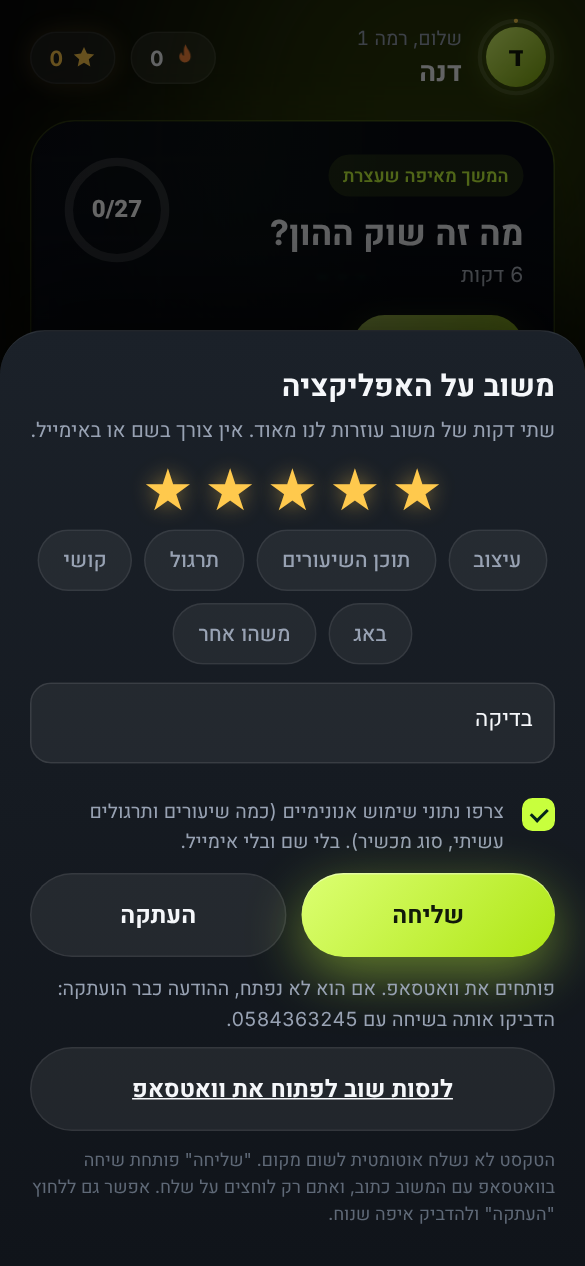
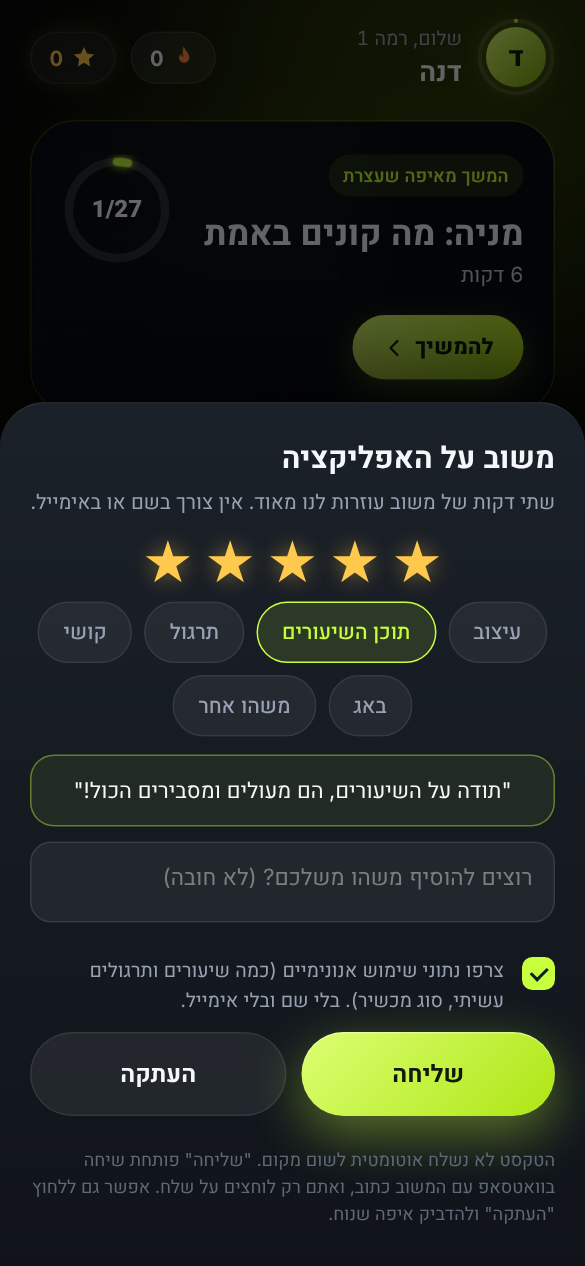
Feedback: ready-made short sentence for every topic and star count, compact message format
Claude-Session: https://claude.ai/code/session_011m9Yf8x73arYD9GUop3Civ

diff --git a/capital-market-app/review/app.html b/capital-market-app/review/app.html
@@ -1122,6 +1122,9 @@ details.more p{font-size:13.5px;line-height:1.65;color:var(--muted);margin:8px 0
 .fbfab span{display:none}.fbfab svg{width:24px;height:24px;color:#0b0d10}
 .with-tabs .fbfab{bottom:164px}
 
+.fb-prev{margin:4px 0 10px;padding:12px 14px;border-radius:16px;background:rgba(255,255,255,.05);border:1px dashed var(--line);font-size:14.5px;line-height:1.55;color:var(--muted);text-align:center}
+.fb-prev.on{color:var(--text);border-style:solid;border-color:rgba(200,255,61,.4);background:rgba(200,255,61,.07)}
+
 body{background:#0b0d10}
 @media (min-width:481px){body{background:#d9dde3}}
 </style>
@@ -4713,14 +4716,28 @@ screens.community = () => {
 'use strict';
 /* ===== feedback, welcome, about, error notice: for letting friends test the prototype ===== */
 const FB_ERRORS = [];
+/* ready-made short sentences: one for every topic and every number of stars */
+const FB_LINES = {
+  'תוכן השיעורים': { 1: 'השיעורים לא ברורים לי, קשה לי להבין מהם.', 2: 'השיעורים לא הכי ברורים, יש בהם דברים שלא הבנתי.', 3: 'השיעורים בסדר, אבל אפשר לשפר אותם.', 4: 'השיעורים טובים וברורים, תודה!', 5: 'תודה על השיעורים, הם מעולים ומסבירים הכול!' },
+  'תרגול': { 1: 'התרגול לא עובד לי, הוא מבלבל ולא ברור מה לעשות.', 2: 'התרגול מבלבל קצת, לא תמיד ברור מה מצפים ממני.', 3: 'התרגול בסדר, אבל יש מה לשפר.', 4: 'התרגול כיף ומלמד, אהבתי!', 5: 'התרגול מעולה! אהבתי במיוחד את הגרפים האמיתיים.' },
+  'עיצוב': { 1: 'העיצוב לא מצא חן בעיניי, הוא עמוס ולא נעים לעין.', 2: 'העיצוב לא הכי נעים לי, יש בו דברים מבלבלים.', 3: 'העיצוב בסדר, אבל אפשר לשפר.', 4: 'העיצוב יפה ונעים לעין, אהבתי!', 5: 'העיצוב מעולה! נראה מקצועי ונעים להשתמש.' },
+  'קושי': { 1: 'זה קשה מדי בשבילי, קשה לי לעקוב.', 2: 'זה קצת קשה לי, הייתי רוצה הסברים פשוטים יותר.', 3: 'רמת הקושי בסדר, לפעמים קשה ולפעמים קל.', 4: 'הקושי מתאים לי, לא קל מדי ולא קשה מדי.', 5: 'הקושי מושלם, מאתגר אבל ברור!' },
+  'באג': { 1: 'משהו נשבר לי באפליקציה והיא לא עבדה כמו שצריך.', 2: 'נתקלתי בבעיה באפליקציה, משהו לא עבד.', 3: 'יש בעיה קטנה אחת, אבל אפשר להמשיך.', 4: 'הכול עבד כמעט חלק, יש רק פגם קטן.', 5: 'הכול עבד חלק, לא מצאתי שום באג!' },
+  'משהו אחר': { 1: 'האפליקציה לא עבדה לי בכלל.', 2: 'האפליקציה לא הכי מתאימה לי כרגע.', 3: 'האפליקציה בסדר, אבל יש עוד מה לשפר.', 4: 'אהבתי את האפליקציה, תמשיכו!', 5: 'האפליקציה מעולה! תודה שנתתם לי לנסות.' }
+};
+const fbLine = (f) => f.rate ? (FB_LINES[f.topic] || FB_LINES['משהו אחר'])[f.rate] : (f.topic ? `אני רוצה להגיד משהו על ${f.topic}.` : '');
+function deviceShort() {
+  const u = navigator.userAgent, br = /Edg\//.test(u) ? 'Edge' : /Firefox\//.test(u) ? 'Firefox' : /Chrome\//.test(u) ? 'Chrome' : /Safari\//.test(u) ? 'Safari' : 'דפדפן';
+  const os = /Android/.test(u) ? 'Android' : /iPhone|iPad/.test(u) ? 'iPhone' : /Windows/.test(u) ? 'Windows' : /Mac OS/.test(u) ? 'Mac' : /Linux/.test(u) ? 'Linux' : '';
+  return br + (os ? ' על ' + os : '');
+}
 function usageSummary() {
   const ac = A(), pd = ac.practiceDone || {};
-  return `שיעורים: ${(ac.lessonsDone || []).length}/${LESSONS.length} | מקרי תרגול: ${Object.values(pd).filter(v => v > 0).length}/${SCEN.length} | כוכבים: ${ac.stars || 0} | רצף: ${streakDays(ac)} | מסך: ${cur.name}${cur.arg != null && typeof cur.arg !== 'object' ? ' ' + cur.arg : ''} | רוחב: ${innerWidth}`;
+  return `שיעורים ${(ac.lessonsDone || []).length}/${LESSONS.length} · תרגול ${Object.values(pd).filter(v => v > 0).length}/${SCEN.length} · כוכבים ${ac.stars || 0} · מסך: ${cur.name}${cur.arg != null && typeof cur.arg !== 'object' ? ' ' + cur.arg : ''} · ${deviceShort()}${FB_ERRORS.length ? ' · שגיאות: ' + FB_ERRORS.slice(-2).join(' ; ') : ''}`;
 }
 function buildFeedbackText(f) {
-  const stars = f.rate ? '★'.repeat(f.rate) + '☆'.repeat(5 - f.rate) + ` (${f.rate}/5)` : 'לא דורג';
-  return `משוב על האפליקציה (${APP_VERSION}, ${BUILD_DATE})\nדירוג: ${stars}\nנושא: ${f.topic || 'כללי'}\nהודעה: ${f.msg || '(בלי הודעה)'}` +
-    (f.attach ? `\n--- נתוני שימוש אנונימיים ---\n${usageSummary()}\nדפדפן: ${navigator.userAgent.slice(0, 110)}${FB_ERRORS.length ? '\nשגיאות: ' + FB_ERRORS.slice(-3).join(' ; ') : ''}` : '');
+  const head = f.rate ? `${f.rate}/5 ${'★'.repeat(f.rate)}${f.topic ? ' | ' + f.topic : ''}` : (f.topic || 'כללי');
+  return `היי, משוב על האפליקציה:\n${head}\n"${fbLine(f) || (f.msg ? '' : '...')}"` + (f.msg ? `\n${f.msg}` : '') + (f.attach ? `\n— ${usageSummary()} (${APP_VERSION}, ${BUILD_DATE})` : '');
 }
 function openFeedback() {
   const f = { rate: 0, topic: '', attach: true };
@@ -4728,19 +4745,22 @@ function openFeedback() {
   openSheet(`<h3>משוב על האפליקציה</h3><p class="muted" style="font-size:13.5px;line-height:1.55">שתי דקות של משוב עוזרות לנו מאוד. אין צורך בשם או באימייל.</p>
     <div class="fb-rate" id="fbr">${[1, 2, 3, 4, 5].map(n => `<button data-r="${n}" aria-label="${n} מתוך 5">★</button>`).join('')}</div>
     <div class="chips fb-topics" id="fbt">${TOPICS.map(t => `<button class="chip" data-t="${t}">${t}</button>`).join('')}</div>
-    <textarea class="gi cq" id="fbm" rows="4" maxlength="600" placeholder="מה היה ברור, מה לא, מה היה משעמם, מה נשבר?"></textarea>
+    <div class="fb-prev" id="fbp"></div>
+    <textarea class="gi cq" id="fbm" rows="3" maxlength="600" placeholder="רוצים להוסיף משהו משלכם? (לא חובה)"></textarea>
     <button class="check on" id="fba" type="button"><i></i><span>צרפו נתוני שימוש אנונימיים (כמה שיעורים ותרגולים עשיתי, סוג מכשיר). בלי שם ובלי אימייל.</span></button>
     <div class="fb-send"><button class="btn primary" id="fbs">שליחה</button><button class="btn ghost" id="fbc">העתקה</button></div>
     <div class="fb-extra" id="fbx"></div>
     <p class="demo-note" style="margin-top:10px">הטקסט לא נשלח אוטומטית לשום מקום. "שליחה" פותחת שיחה בוואטסאפ עם המשוב כתוב, ואתם רק לוחצים על שלח. אפשר גם ללחוץ "העתקה" ולהדביק איפה שנוח.</p>`);
   const cur_ = () => { f.msg = $('#fbm').value.trim(); return buildFeedbackText(f); };
-  $('#fbr').onclick = (e) => { const b = e.target.closest('button'); if (!b) return; f.rate = +b.dataset.r; $$('#fbr button').forEach(x => x.classList.toggle('on', +x.dataset.r <= f.rate)); };
-  $('#fbt').onclick = (e) => { const b = e.target.closest('.chip'); if (!b) return; f.topic = b.dataset.t; $$('#fbt .chip').forEach(x => x.classList.toggle('on', x === b)); };
+  const prev = () => { const l = fbLine(f); $('#fbp').textContent = l ? '"' + l + '"' : 'בחרו כוכבים ונושא, ונכתוב בשבילכם משפט קצר.'; $('#fbp').classList.toggle('on', !!l); };
+  $('#fbr').onclick = (e) => { const b = e.target.closest('button'); if (!b) return; f.rate = +b.dataset.r; $$('#fbr button').forEach(x => x.classList.toggle('on', +x.dataset.r <= f.rate)); prev(); };
+  $('#fbt').onclick = (e) => { const b = e.target.closest('.chip'); if (!b) return; f.topic = b.dataset.t; $$('#fbt .chip').forEach(x => x.classList.toggle('on', x === b)); prev(); };
+  prev();
   $('#fba').onclick = () => { f.attach = !f.attach; $('#fba').classList.toggle('on', f.attach); };
   const copy = async (t) => { try { await navigator.clipboard.writeText(t); toast('הועתק, אפשר להדביק'); } catch (e) { const ta = $('#fbm'); ta.value = t; ta.select(); toast('סמנו והעתיקו את הטקסט'); } };
   $('#fbc').onclick = () => copy(cur_());
   $('#fbs').onclick = async () => {
-    const t = cur_(); if (f.rate === 0 && !f.msg) return toast('דרגו או כתבו משהו קודם');
+    const t = cur_(); if (!fbLine(f) && !f.msg) return toast('בחרו כוכבים ונושא, או כתבו משהו');
     if (FEEDBACK_WHATSAPP) {
       /* some viewers (for example a preview inside another page) block WhatsApp, so the text is also copied and shown as a fallback */
       const url = `https://wa.me/${FEEDBACK_WHATSAPP}?text=${encodeURIComponent(t)}`, local = '0' + FEEDBACK_WHATSAPP.replace(/^972/, '');

diff --git a/capital-market-app/prototype/js/feedback.js b/capital-market-app/prototype/js/feedback.js
@@ -1,14 +1,28 @@
 'use strict';
 /* ===== feedback, welcome, about, error notice: for letting friends test the prototype ===== */
 const FB_ERRORS = [];
+/* ready-made short sentences: one for every topic and every number of stars */
+const FB_LINES = {
+  'תוכן השיעורים': { 1: 'השיעורים לא ברורים לי, קשה לי להבין מהם.', 2: 'השיעורים לא הכי ברורים, יש בהם דברים שלא הבנתי.', 3: 'השיעורים בסדר, אבל אפשר לשפר אותם.', 4: 'השיעורים טובים וברורים, תודה!', 5: 'תודה על השיעורים, הם מעולים ומסבירים הכול!' },
+  'תרגול': { 1: 'התרגול לא עובד לי, הוא מבלבל ולא ברור מה לעשות.', 2: 'התרגול מבלבל קצת, לא תמיד ברור מה מצפים ממני.', 3: 'התרגול בסדר, אבל יש מה לשפר.', 4: 'התרגול כיף ומלמד, אהבתי!', 5: 'התרגול מעולה! אהבתי במיוחד את הגרפים האמיתיים.' },
+  'עיצוב': { 1: 'העיצוב לא מצא חן בעיניי, הוא עמוס ולא נעים לעין.', 2: 'העיצוב לא הכי נעים לי, יש בו דברים מבלבלים.', 3: 'העיצוב בסדר, אבל אפשר לשפר.', 4: 'העיצוב יפה ונעים לעין, אהבתי!', 5: 'העיצוב מעולה! נראה מקצועי ונעים להשתמש.' },
+  'קושי': { 1: 'זה קשה מדי בשבילי, קשה לי לעקוב.', 2: 'זה קצת קשה לי, הייתי רוצה הסברים פשוטים יותר.', 3: 'רמת הקושי בסדר, לפעמים קשה ולפעמים קל.', 4: 'הקושי מתאים לי, לא קל מדי ולא קשה מדי.', 5: 'הקושי מושלם, מאתגר אבל ברור!' },
+  'באג': { 1: 'משהו נשבר לי באפליקציה והיא לא עבדה כמו שצריך.', 2: 'נתקלתי בבעיה באפליקציה, משהו לא עבד.', 3: 'יש בעיה קטנה אחת, אבל אפשר להמשיך.', 4: 'הכול עבד כמעט חלק, יש רק פגם קטן.', 5: 'הכול עבד חלק, לא מצאתי שום באג!' },
+  'משהו אחר': { 1: 'האפליקציה לא עבדה לי בכלל.', 2: 'האפליקציה לא הכי מתאימה לי כרגע.', 3: 'האפליקציה בסדר, אבל יש עוד מה לשפר.', 4: 'אהבתי את האפליקציה, תמשיכו!', 5: 'האפליקציה מעולה! תודה שנתתם לי לנסות.' }
+};
+const fbLine = (f) => f.rate ? (FB_LINES[f.topic] || FB_LINES['משהו אחר'])[f.rate] : (f.topic ? `אני רוצה להגיד משהו על ${f.topic}.` : '');
+function deviceShort() {
+  const u = navigator.userAgent, br = /Edg\//.test(u) ? 'Edge' : /Firefox\//.test(u) ? 'Firefox' : /Chrome\//.test(u) ? 'Chrome' : /Safari\//.test(u) ? 'Safari' : 'דפדפן';
+  const os = /Android/.test(u) ? 'Android' : /iPhone|iPad/.test(u) ? 'iPhone' : /Windows/.test(u) ? 'Windows' : /Mac OS/.test(u) ? 'Mac' : /Linux/.test(u) ? 'Linux' : '';
+  return br + (os ? ' על ' + os : '');
+}
 function usageSummary() {
   const ac = A(), pd = ac.practiceDone || {};
-  return `שיעורים: ${(ac.lessonsDone || []).length}/${LESSONS.length} | מקרי תרגול: ${Object.values(pd).filter(v => v > 0).length}/${SCEN.length} | כוכבים: ${ac.stars || 0} | רצף: ${streakDays(ac)} | מסך: ${cur.name}${cur.arg != null && typeof cur.arg !== 'object' ? ' ' + cur.arg : ''} | רוחב: ${innerWidth}`;
+  return `שיעורים ${(ac.lessonsDone || []).length}/${LESSONS.length} · תרגול ${Object.values(pd).filter(v => v > 0).length}/${SCEN.length} · כוכבים ${ac.stars || 0} · מסך: ${cur.name}${cur.arg != null && typeof cur.arg !== 'object' ? ' ' + cur.arg : ''} · ${deviceShort()}${FB_ERRORS.length ? ' · שגיאות: ' + FB_ERRORS.slice(-2).join(' ; ') : ''}`;
 }
 function buildFeedbackText(f) {
-  const stars = f.rate ? '★'.repeat(f.rate) + '☆'.repeat(5 - f.rate) + ` (${f.rate}/5)` : 'לא דורג';
-  return `משוב על האפליקציה (${APP_VERSION}, ${BUILD_DATE})\nדירוג: ${stars}\nנושא: ${f.topic || 'כללי'}\nהודעה: ${f.msg || '(בלי הודעה)'}` +
-    (f.attach ? `\n--- נתוני שימוש אנונימיים ---\n${usageSummary()}\nדפדפן: ${navigator.userAgent.slice(0, 110)}${FB_ERRORS.length ? '\nשגיאות: ' + FB_ERRORS.slice(-3).join(' ; ') : ''}` : '');
+  const head = f.rate ? `${f.rate}/5 ${'★'.repeat(f.rate)}${f.topic ? ' | ' + f.topic : ''}` : (f.topic || 'כללי');
+  return `היי, משוב על האפליקציה:\n${head}\n"${fbLine(f) || (f.msg ? '' : '...')}"` + (f.msg ? `\n${f.msg}` : '') + (f.attach ? `\n— ${usageSummary()} (${APP_VERSION}, ${BUILD_DATE})` : '');
 }
 function openFeedback() {
   const f = { rate: 0, topic: '', attach: true };
@@ -16,19 +30,22 @@ function openFeedback() {
   openSheet(`<h3>משוב על האפליקציה</h3><p class="muted" style="font-size:13.5px;line-height:1.55">שתי דקות של משוב עוזרות לנו מאוד. אין צורך בשם או באימייל.</p>
     <div class="fb-rate" id="fbr">${[1, 2, 3, 4, 5].map(n => `<button data-r="${n}" aria-label="${n} מתוך 5">★</button>`).join('')}</div>
     <div class="chips fb-topics" id="fbt">${TOPICS.map(t => `<button class="chip" data-t="${t}">${t}</button>`).join('')}</div>
-    <textarea class="gi cq" id="fbm" rows="4" maxlength="600" placeholder="מה היה ברור, מה לא, מה היה משעמם, מה נשבר?"></textarea>
+    <div class="fb-prev" id="fbp"></div>
+    <textarea class="gi cq" id="fbm" rows="3" maxlength="600" placeholder="רוצים להוסיף משהו משלכם? (לא חובה)"></textarea>
     <button class="check on" id="fba" type="button"><i></i><span>צרפו נתוני שימוש אנונימיים (כמה שיעורים ותרגולים עשיתי, סוג מכשיר). בלי שם ובלי אימייל.</span></button>
     <div class="fb-send"><button class="btn primary" id="fbs">שליחה</button><button class="btn ghost" id="fbc">העתקה</button></div>
     <div class="fb-extra" id="fbx"></div>
     <p class="demo-note" style="margin-top:10px">הטקסט לא נשלח אוטומטית לשום מקום. "שליחה" פותחת שיחה בוואטסאפ עם המשוב כתוב, ואתם רק לוחצים על שלח. אפשר גם ללחוץ "העתקה" ולהדביק איפה שנוח.</p>`);
   const cur_ = () => { f.msg = $('#fbm').value.trim(); return buildFeedbackText(f); };
-  $('#fbr').onclick = (e) => { const b = e.target.closest('button'); if (!b) return; f.rate = +b.dataset.r; $$('#fbr button').forEach(x => x.classList.toggle('on', +x.dataset.r <= f.rate)); };
-  $('#fbt').onclick = (e) => { const b = e.target.closest('.chip'); if (!b) return; f.topic = b.dataset.t; $$('#fbt .chip').forEach(x => x.classList.toggle('on', x === b)); };
+  const prev = () => { const l = fbLine(f); $('#fbp').textContent = l ? '"' + l + '"' : 'בחרו כוכבים ונושא, ונכתוב בשבילכם משפט קצר.'; $('#fbp').classList.toggle('on', !!l); };
+  $('#fbr').onclick = (e) => { const b = e.target.closest('button'); if (!b) return; f.rate = +b.dataset.r; $$('#fbr button').forEach(x => x.classList.toggle('on', +x.dataset.r <= f.rate)); prev(); };
+  $('#fbt').onclick = (e) => { const b = e.target.closest('.chip'); if (!b) return; f.topic = b.dataset.t; $$('#fbt .chip').forEach(x => x.classList.toggle('on', x === b)); prev(); };
+  prev();
   $('#fba').onclick = () => { f.attach = !f.attach; $('#fba').classList.toggle('on', f.attach); };
   const copy = async (t) => { try { await navigator.clipboard.writeText(t); toast('הועתק, אפשר להדביק'); } catch (e) { const ta = $('#fbm'); ta.value = t; ta.select(); toast('סמנו והעתיקו את הטקסט'); } };
   $('#fbc').onclick = () => copy(cur_());
   $('#fbs').onclick = async () => {
-    const t = cur_(); if (f.rate === 0 && !f.msg) return toast('דרגו או כתבו משהו קודם');
+    const t = cur_(); if (!fbLine(f) && !f.msg) return toast('בחרו כוכבים ונושא, או כתבו משהו');
     if (FEEDBACK_WHATSAPP) {
       /* some viewers (for example a preview inside another page) block WhatsApp, so the text is also copied and shown as a fallback */
       const url = `https://wa.me/${FEEDBACK_WHATSAPP}?text=${encodeURIComponent(t)}`, local = '0' + FEEDBACK_WHATSAPP.replace(/^972/, '');

diff --git a/capital-market-app/prototype/style.css b/capital-market-app/prototype/style.css
@@ -1114,3 +1114,6 @@ details.more p{font-size:13.5px;line-height:1.65;color:var(--muted);margin:8px 0
 .fbfab{width:48px;height:48px;padding:0;justify-content:center;border-radius:50%;color:#0b0d10;background:linear-gradient(135deg,#d9ff6a,#b6f21a);border:0;box-shadow:0 8px 22px rgba(0,0,0,.45),0 0 0 4px rgba(200,255,61,.14);left:14px}
 .fbfab span{display:none}.fbfab svg{width:24px;height:24px;color:#0b0d10}
 .with-tabs .fbfab{bottom:164px}
+
+.fb-prev{margin:4px 0 10px;padding:12px 14px;border-radius:16px;background:rgba(255,255,255,.05);border:1px dashed var(--line);font-size:14.5px;line-height:1.55;color:var(--muted);text-align:center}
+.fb-prev.on{color:var(--text);border-style:solid;border-color:rgba(200,255,61,.4);background:rgba(200,255,61,.07)}
